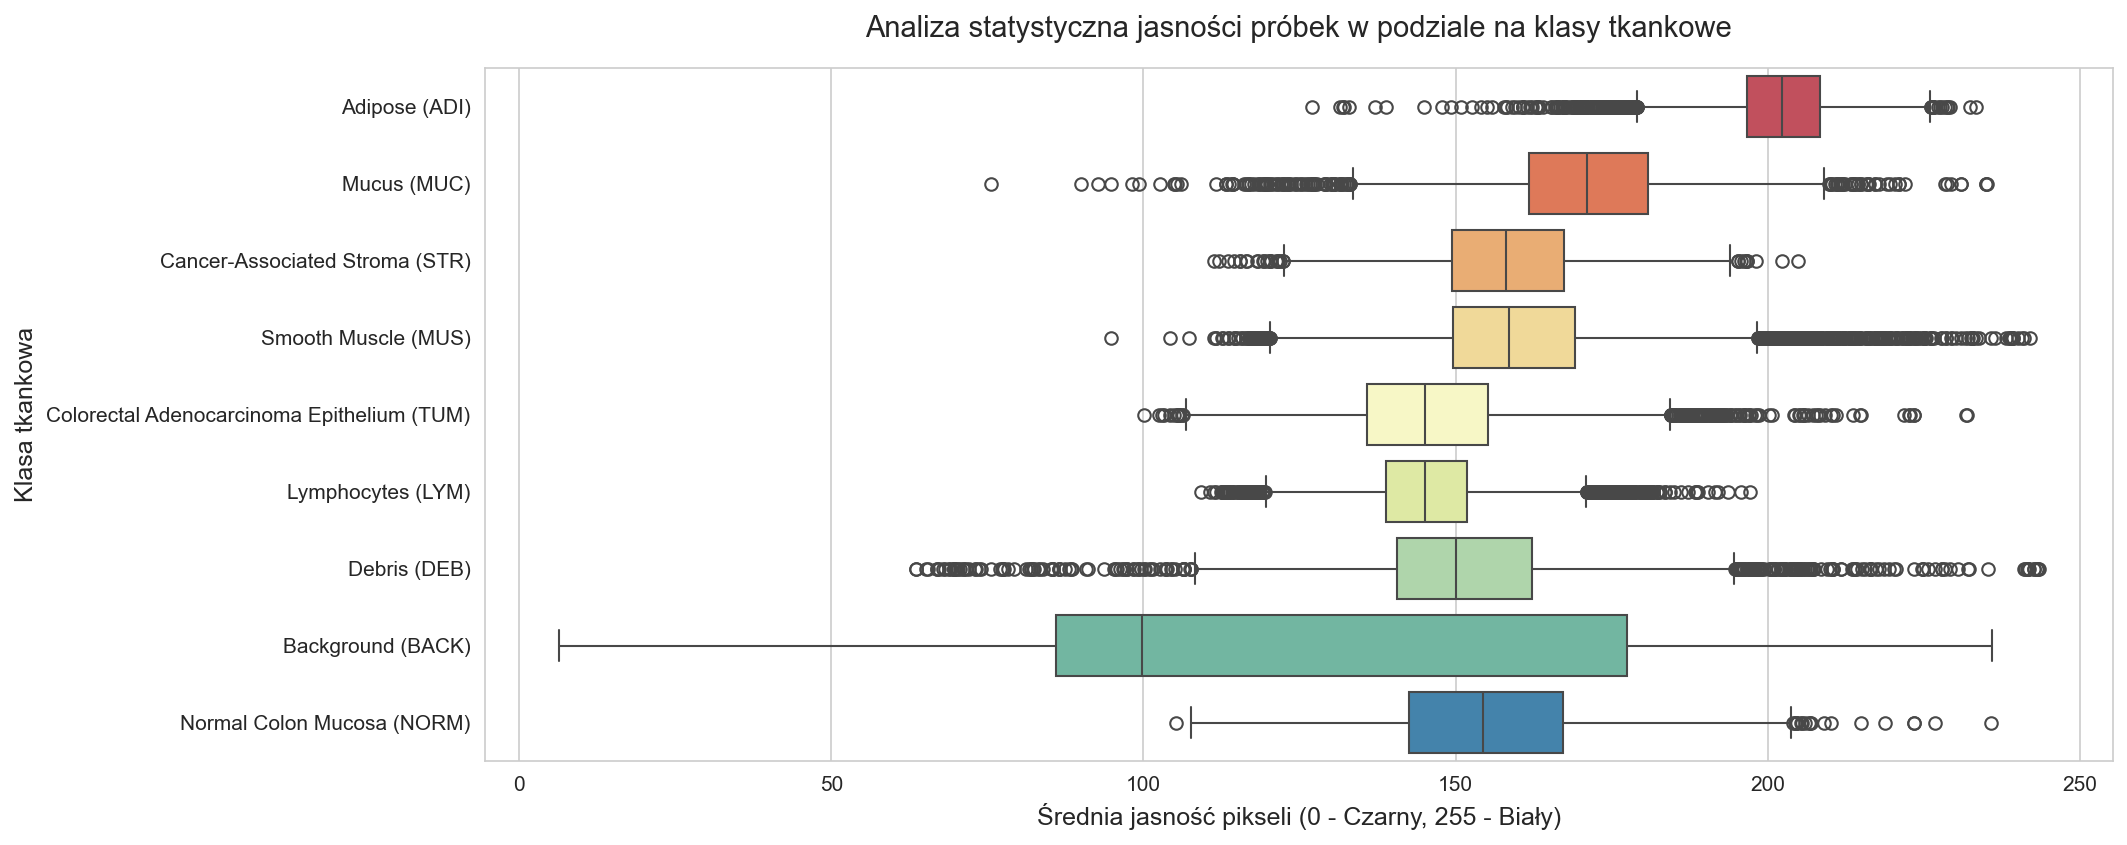
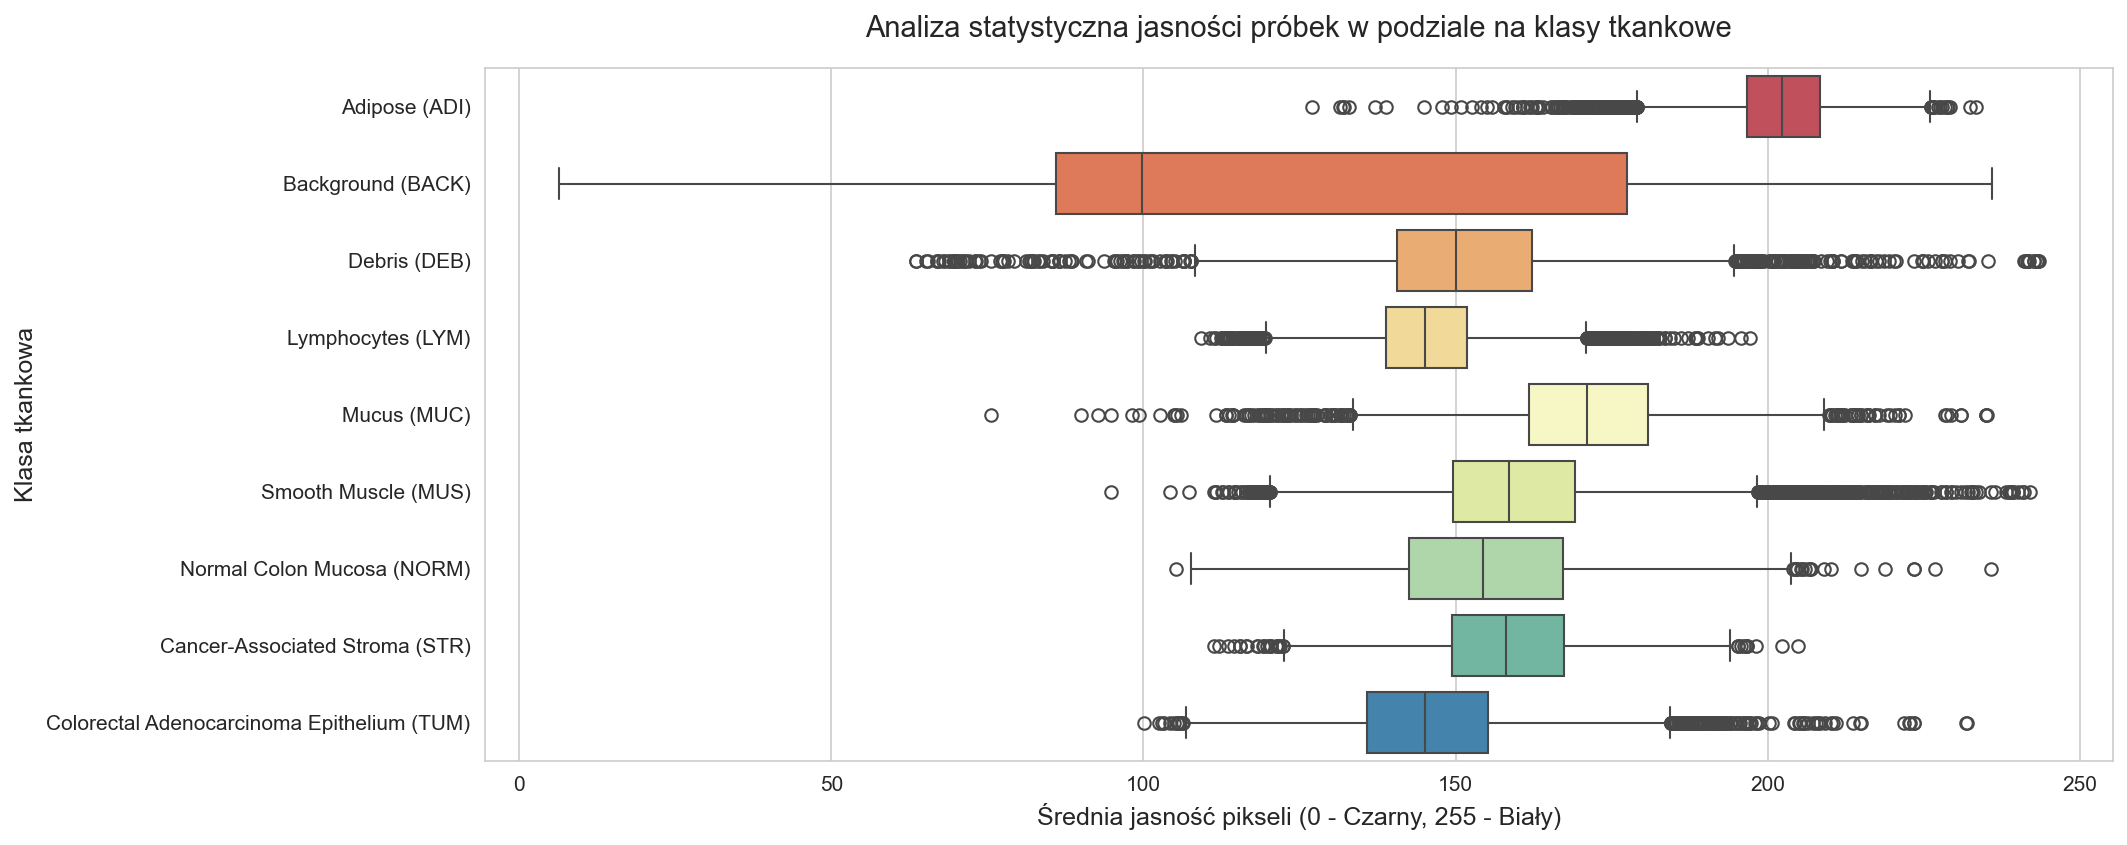
Same colors on EDA charts

diff --git a/src/eda.py b/src/eda.py
@@ -105,9 +105,12 @@ def plot_brightness_boxplot(images, labels, save_dir):
     
     # lista etykiet dla klas
     formatted_labels = [CLASS_NAMES[lbl] for lbl in labels]
+
+    # odwrócenie kolejności wyświetlania dla zachowania spójności
+    explicit_order = [CLASS_NAMES[i] for i in range(9)]
     
     # rysowanie boxplotu
-    sns.boxplot(x=mean_brightness, y=formatted_labels, palette="Spectral")
+    sns.boxplot(x=mean_brightness, y=formatted_labels, order=explicit_order, palette="Spectral")
     
     plt.title("Analiza statystyczna jasności próbek w podziale na klasy tkankowe", fontsize=14, pad=15)
     plt.xlabel("Średnia jasność pikseli (0 - Czarny, 255 - Biały)", fontsize=12)
@@ -140,8 +143,8 @@ def plot_pca_separation(images, labels, save_dir):
     plt.figure(figsize=(12, 8))
     sns.set_style("white")
     
-    # paleta 9 wyraźnych kolorów
-    colors = sns.color_palette("Set1", n_colors=9)
+    # paleta 9 kolorów jak w box-plocie
+    custom_spectral_colors = sns.color_palette("Spectral", n_colors=9)
     
     for cls in range(9):
         cls_mask = (sampled_labels == cls)
@@ -152,7 +155,7 @@ def plot_pca_separation(images, labels, save_dir):
             alpha=0.6,
             edgecolors='none',
             s=25,
-            color=colors[cls]
+            color=custom_spectral_colors[cls]
         )
         
     plt.title("Wizualizacja przestrzeni cech PathMNIST za pomocą PCA (2D)", fontsize=14, pad=15)
@@ -181,8 +184,8 @@ def run_eda():
     train_labels = data['train_labels'].squeeze()
     
     # analizy wizualne
-    plot_sample_gallery(train_images, train_labels, results_dir) # wywołanie próbek graficznych dla klas
-    plot_rgb_intensity_distribution(train_images, results_dir) # wywołanie dystrybucjki RGB
+    #plot_sample_gallery(train_images, train_labels, results_dir) # wywołanie próbek graficznych dla klas
+    #plot_rgb_intensity_distribution(train_images, results_dir) # wywołanie dystrybucjki RGB
     plot_brightness_boxplot(train_images, train_labels, results_dir) # wywołanie boxplotu jasności
     plot_pca_separation(train_images, train_labels, results_dir) # seraracja PCA
     print("\n[SUKCES] Wszystkie wizualizacje EDA zostały wygenerowane i zapisane w folderze 'reports/eda/'.")